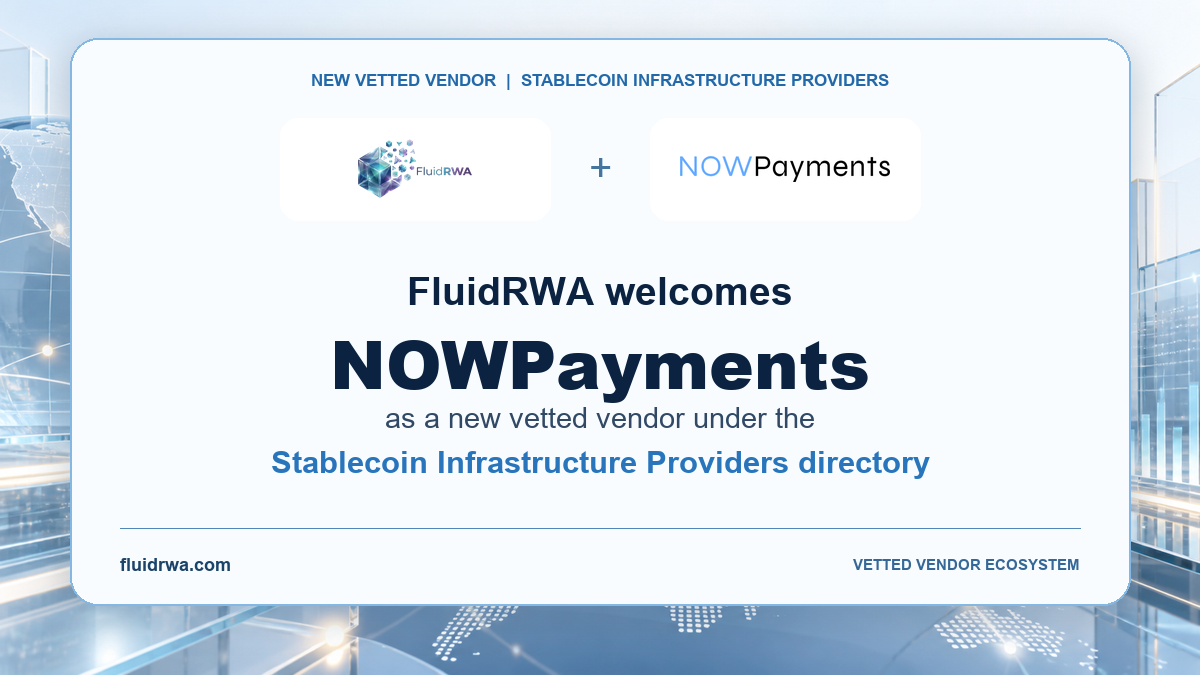
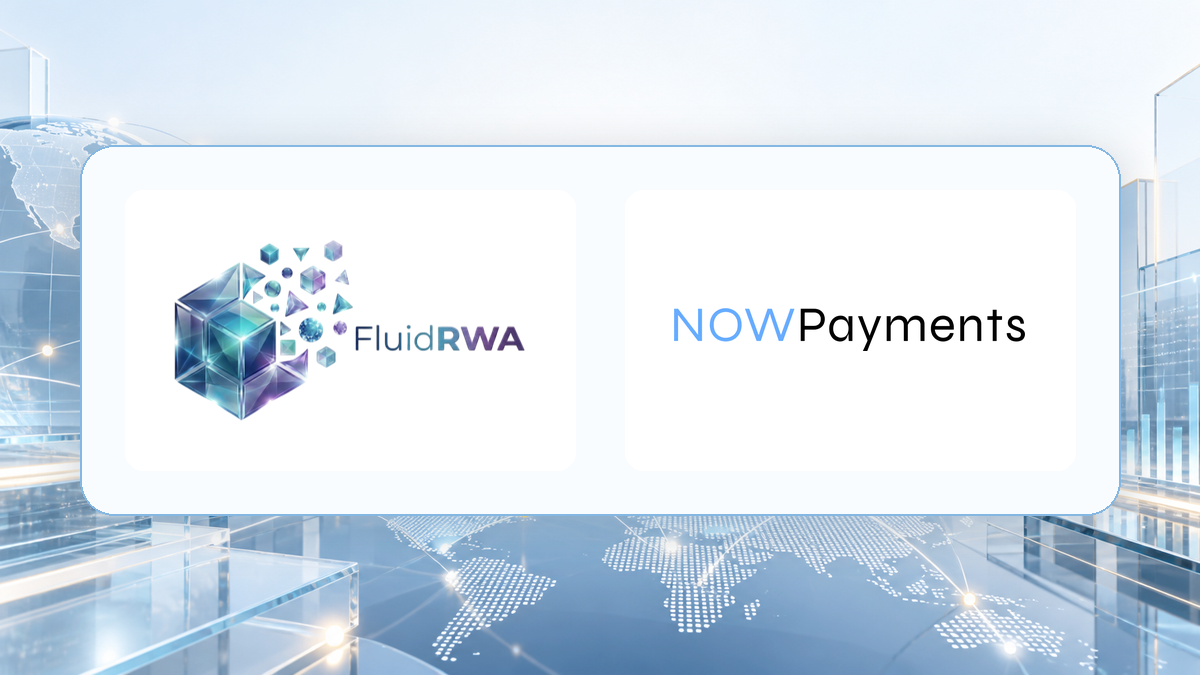
Simplify NOWPayments social graphic

diff --git a/scripts/create-nowpayments-social-image.py b/scripts/create-nowpayments-social-image.py
@@ -39,7 +39,7 @@ def trim_white(image):
     return image.crop((min(xs), min(ys), max(xs) + 1, max(ys) + 1))
 
 
-def place_logo(canvas, path, box, trim=False):
+def place_logo(canvas, path, box, trim=False, max_width_ratio=0.78):
     x1, y1, x2, y2 = box
     draw = ImageDraw.Draw(canvas)
     draw.rounded_rectangle(box, radius=18, fill=(255, 255, 255, 246), outline=(255, 255, 255, 170), width=1)
@@ -50,7 +50,7 @@ def place_logo(canvas, path, box, trim=False):
         alpha_box = logo.getbbox()
         if alpha_box:
             logo = logo.crop(alpha_box)
-    logo.thumbnail((int((x2 - x1) * 0.78), int((y2 - y1) * 0.58)), Image.Resampling.LANCZOS)
+    logo.thumbnail((int((x2 - x1) * max_width_ratio), int((y2 - y1) * 0.72)), Image.Resampling.LANCZOS)
     canvas.alpha_composite(logo, (int((x1 + x2 - logo.width) / 2), int((y1 + y2 - logo.height) / 2)))
 
 
@@ -67,46 +67,20 @@ def create():
 
     glass = Image.new("RGBA", size, (0, 0, 0, 0))
     shadow_draw = ImageDraw.Draw(glass)
-    shadow_draw.rounded_rectangle((69, 47, 1131, 614), radius=30, fill=(30, 83, 128, 62))
-    glass = glass.filter(ImageFilter.GaussianBlur(18))
-    canvas = Image.alpha_composite(canvas, glass)
+    shadow_draw.rounded_rectangle((78, 155, 1122, 526), radius=36, fill=(30, 83, 128, 52))
+    canvas = Image.alpha_composite(canvas, glass.filter(ImageFilter.GaussianBlur(22)))
 
     draw = ImageDraw.Draw(canvas)
     draw.rounded_rectangle(
-        (70, 38, 1130, 605),
-        radius=28,
-        fill=(248, 252, 255, 232),
-        outline=(132, 184, 226, 150),
+        (80, 145, 1120, 515),
+        radius=34,
+        fill=(248, 252, 255, 220),
+        outline=(132, 184, 226, 145),
         width=2,
     )
 
-    eyebrow = font("Arial Bold.ttf", 17)
-    label = "NEW VETTED VENDOR  |  STABLECOIN INFRASTRUCTURE PROVIDERS"
-    centered_text(draw, label, 70, eyebrow, (35, 105, 169, 255), size[0])
-
-    place_logo(canvas, FLUID_LOGO, (280, 118, 550, 220))
-    place_logo(canvas, NOWPAYMENTS_LOGO, (650, 118, 920, 220), trim=True)
-    draw = ImageDraw.Draw(canvas)
-    centered_text(draw, "+", 145, font("Arial.ttf", 40), (69, 116, 158, 230), size[0])
-
-    centered_text(draw, "FluidRWA welcomes", 269, font("Arial Bold.ttf", 39), (11, 35, 64, 255), size[0])
-    centered_text(draw, "NOWPayments", 315, font("Arial Black.ttf", 67), (11, 35, 64, 255), size[0])
-    centered_text(draw, "as a new vetted vendor under the", 401, font("Arial.ttf", 29), (49, 73, 101, 255), size[0])
-    centered_text(
-        draw,
-        "Stablecoin Infrastructure Providers directory",
-        444,
-        font("Arial Bold.ttf", 31),
-        (40, 117, 187, 255),
-        size[0],
-    )
-
-    draw.line((120, 528, 1080, 528), fill=(78, 135, 184, 95), width=1)
-    draw.text((120, 554), "fluidrwa.com", font=font("Arial Bold.ttf", 18), fill=(28, 67, 104, 235))
-    footer = "VETTED VENDOR ECOSYSTEM"
-    footer_font = font("Arial Bold.ttf", 15)
-    footer_box = draw.textbbox((0, 0), footer, font=footer_font)
-    draw.text((1080 - (footer_box[2] - footer_box[0]), 556), footer, font=footer_font, fill=(53, 104, 150, 220))
+    place_logo(canvas, FLUID_LOGO, (125, 190, 575, 470), max_width_ratio=0.78)
+    place_logo(canvas, NOWPAYMENTS_LOGO, (625, 190, 1075, 470), trim=True, max_width_ratio=0.78)
 
     OUTPUT.parent.mkdir(parents=True, exist_ok=True)
     canvas.convert("RGB").save(OUTPUT, optimize=True)
